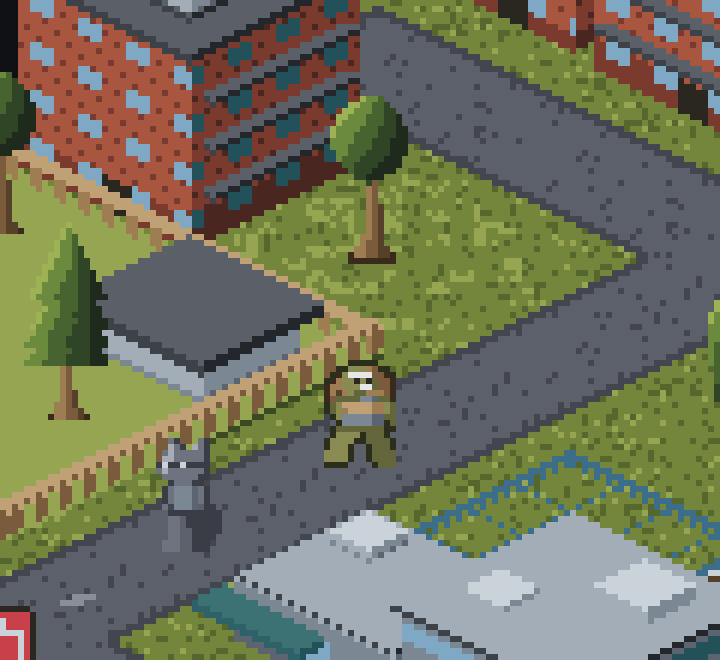
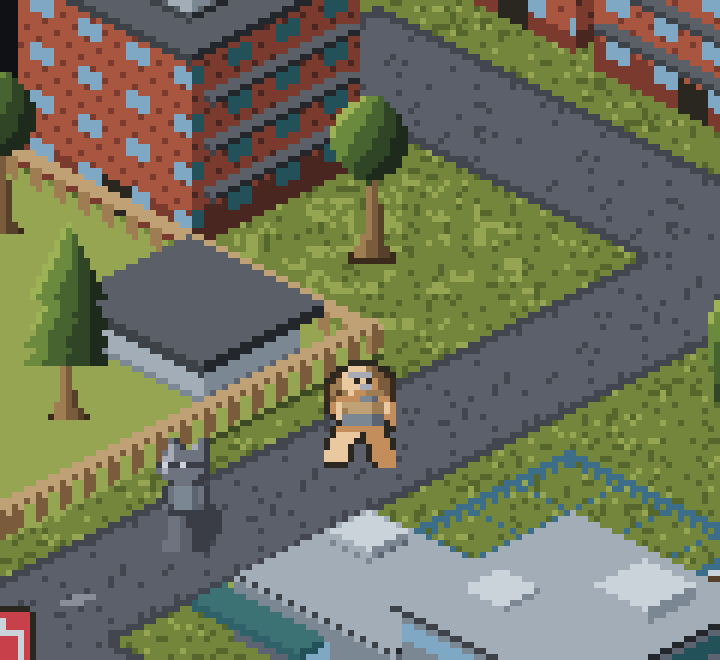
Thirteen species arrive: kit sprites for pig, cow, wolf, cat and hawk; tortoise skin; ARRIVING = everyone
Art (js/art/citizens.js, one artist + one critic, approved): HEAD overlays SE/NE,
tails (pig curl, cow rope tuft, wolf bushy low, cat rising line, hawk fan),
two new overlay kinds (WINGS for the hawk, PATCHES for the cow painted only
over fur-class pixels so a lifted leg never leaves a floating patch), cub marks
for all five; the tortoise gets a warm skin + a '+' rim so it separates from
grass and asphalt (the olive-on-olive failure). Critic's one exact fix applied:
the hawk's beak was hanging off the shaded cheek; centred under the eyes.
570 sprites audited (was 390).

Sim: species.js ARRIVING now lists every species in the table.

Measured (seed 7, 2 parks, 20 yr, all species): 870 by y5, 1,812 by y17,
top shares pig 14% / beaver 13% / wolf 11%, no species above 26% after
year 1 (bears early, as before). 44/44 checks; 111 walkers.

Changed region(s): [[0.4278, 0.5455, 0.55, 0.7273]]

diff --git a/js/art/citizens.js b/js/art/citizens.js
@@ -1,5 +1,5 @@
-// citizens.js — the KIT. Eight species, hand-authored, the organic exception
-// to the box law (SPEC §0.5, §12.3).
+// citizens.js — the KIT. Thirteen species, hand-authored, the organic
+// exception to the box law (SPEC §0.5, §12.3).
 //
 // A citizen is 12×20 (a cub 8×12), composed at first use and cached:
 //
@@ -17,12 +17,21 @@
 // Every part is authored in the WARM fur keys w x y z (dark → light) and
 // remapped to the species' ramp at compose time; '&' '^' are the shirt (a
 // neutral concrete, so head and body separate at 1×), '+' is the eye, '('
-// is an eye-white/tooth, '-' the owl's beak. The tortoise shell is EARTH
-// (q rim, r scutes, s shade, t/u dome) — a different ramp from its olive
-// limbs on purpose: authored in olive, the shell vanished into the limbs
-// and the whole animal vanished into grass (olive 'h' sits between grass
-// 'n' and 'o'). The tortoise also gets a 1-px 'f' outline so its
-// silhouette closes against grass and asphalt alike.
+// is an eye-white/tooth, '-' the owl's and the hawk's beak. The tortoise
+// shell is EARTH (q rim, r scutes, s shade, t/u dome) — a different ramp
+// from its limbs on purpose: authored in olive, the shell vanished into the
+// limbs. The limbs are NOT olive either, any more (round 4): the species
+// table says olive, but olive 'h' sits between grass 'n' and 'o' and the
+// whole animal vanished into the lawn (luminance 43/68/96/132 against
+// grass 65/91/120/151). The kit overrides the skin ramp for the tortoise
+// alone (`SKIN`): warm tan (furWarm 0) limbs under the brown shell, and a
+// 1-px '+' outline — the only near-black — so its silhouette closes
+// against grass and asphalt alike. The palette is untouched.
+//
+// Beyond ears and tails, three species carry one more overlay: the cow's
+// black patches ('+', painted only where fur already is, so they never
+// float — `PATCHES`), the hawk's folded wings over the arms and its fanned
+// tail (`WINGS`), and the pig's ring snout, which lives in its head rows.
 //
 // ELDER = one rung lighter, but only where the light body rung has
 // headroom; a coat already at the top of its ramp (rabbit, mouse) keeps
@@ -55,12 +64,12 @@ export const FRAMES = Object.freeze(["stand", "stepA", "stepB"]);
 export const AGES = Object.freeze(["adult", "elder", "cub"]);
 /**
  * The species the KIT covers — those with a head overlay below — not every
- * row of the sim's species table. The table can grow ahead of the art
- * (pig, cow, wolf, cat, hawk are in it today); the sim's `ARRIVING` set
- * keeps those off the map until their sprites exist, and `citizenSprite`
- * throws for one, by name, rather than drawing a headless body.
+ * row of the sim's species table. The table can grow ahead of the art; the
+ * sim's `ARRIVING` set keeps a species off the map until its sprites
+ * exist, and `citizenSprite` throws for one, by name, rather than drawing
+ * a headless body. All thirteen rows of the table are drawn today.
  */
-const HEAD_SPECIES = { rabbit: 1, mouse: 1, fox: 1, beaver: 1, owl: 1, bear: 1, tortoise: 1, raccoon: 1 };
+const HEAD_SPECIES = { rabbit: 1, mouse: 1, fox: 1, beaver: 1, owl: 1, bear: 1, tortoise: 1, raccoon: 1, pig: 1, cow: 1, wolf: 1, cat: 1, hawk: 1 };
 export const SPECIES_IDS = Object.freeze(Object.keys(SPECIES_BY_ID).filter((id) => id in HEAD_SPECIES));
 
 // =========================================================================
@@ -366,6 +375,135 @@ const HEAD = {
       "...xyyyxx...",
     ]),
   },
+  // Round 4: the livestock and the predators. Each is ONE mark past the
+  // shared body: pig = the ring snout (an 'x' ring round 'z' with '+'
+  // nostrils — on the pale +1 coat the ring is the one darker rung) and
+  // small triangular ears; cow = short 'w' horns, ears out SIDEWAYS, a
+  // broad 'x' muzzle three rows deep, and '+' patches; wolf = the fox's
+  // pointed ears on the big head and a muzzle one column longer, tipped
+  // with a '+' nose; cat = two-row ears, a 'w' nose, and 1-px 'z' whiskers
+  // standing one pixel off each cheek; hawk = a round head with 'w' brows
+  // and a hooked '-' beak two columns proud of the face.
+  pig: {
+    se: part([
+      "............",
+      "..y.....y...",
+      ".yzy...yxy..",
+      ".yzyyyyyyxx.",
+      ".zzyyyyyyyx.",
+      ".zyyy+yy+yx.",
+      ".yyyywzzzwx.",
+      "..yyyw+z+wx.",
+      "...xyywwwx..",
+    ]),
+    ne: part([
+      "............",
+      "..y.....y...",
+      ".yzy...yxy..",
+      ".yzyyyyyyxx.",
+      ".zyyyyyyyyx.",
+      ".zyyyyyyyyx.",
+      ".yyyyyyyyxx.",
+      "..yyyyyyyx..",
+      "...xyyxxx...",
+    ]),
+  },
+  cow: {
+    se: part([
+      "............",
+      ".w.......w..",
+      ".wy.....yw..",
+      "..++yyyyyx..",
+      "yy++yyyyyyxx",
+      "yzzyy+yy+yxx",
+      ".zyxxxxxxxx.",
+      "..yxx+xx+xx.",
+      "...xxxxxxx..",
+    ]),
+    ne: part([
+      "............",
+      ".w.......w..",
+      ".wy.....yw..",
+      "..yyyyyyyx..",
+      "yyzyyyyyyyxx",
+      "yzyyyy+++yxx",
+      ".zyyyy+++xx.",
+      "..yyyyyyyx..",
+      "...xyyyxxx..",
+    ]),
+  },
+  wolf: {
+    se: part([
+      "..y......y..",
+      ".yzy....yxy.",
+      ".yzyy..yyxy.",
+      ".yzyyyyyyyx.",
+      ".zzyyyyyyyx.",
+      ".zyyy+yy+yx.",
+      ".yyyyyyyzzzx",
+      "..yyyyyzzzz+",
+      "...xyyxxxx..",
+    ]),
+    ne: part([
+      "..y......y..",
+      ".yzy....yxy.",
+      ".yzyy..yyxy.",
+      ".yzyyyyyyyx.",
+      ".zyyyyyyyyx.",
+      ".zyyyyyyyyx.",
+      ".yyyyyyyyxx.",
+      "..yyyyyyxxx.",
+      "...xyyyxxx..",
+    ]),
+  },
+  cat: {
+    se: part([
+      "............",
+      "............",
+      "..y.....y...",
+      "..yzy..yyx..",
+      "..zyyyyyyx..",
+      "..zyy+yy+x..",
+      "z.yyyyywyx.z",
+      "z.yyyyyyxx.z",
+      "...xyyyxx...",
+    ]),
+    ne: part([
+      "............",
+      "............",
+      "..y.....y...",
+      "..yzy..yyx..",
+      "..zyyyyyyx..",
+      "..zyyyyyyx..",
+      "..yyyyyyyx..",
+      "..yyyyyyxx..",
+      "...xyyyxx...",
+    ]),
+  },
+  hawk: {
+    se: part([
+      "............",
+      "............",
+      "............",
+      "...yyyyy....",
+      "..zyywyywx..",
+      "..zyy+yy+x..",
+      "..yyy--yyx..",
+      "..yyyy-yxx..",
+      "...xyyyxx...",
+    ]),
+    ne: part([
+      "............",
+      "............",
+      "............",
+      "...yyyyy....",
+      "..zyyyyyyx..",
+      "..zyyyyyyx..",
+      "..yyyyyyyx..",
+      "..yyyyyyxx..",
+      "...xyyyxx...",
+    ]),
+  },
 };
 
 // =========================================================================
@@ -399,6 +537,65 @@ const TAIL = {
     se: [part(["..x.", ".x..", "x...", "x..."]), 0, 13, true],
     ne: [part(["x", "x", ".x", ".x", "..x"]), 6, 13, false],
   },
+  // A curl at the rump: on the +1 coat 'x' is the ring-snout rung, one
+  // darker than the body, so the curl reads without a key of its own.
+  pig: {
+    se: [part([".xx", "x.x", "xx."]), 0, 12, true],
+    ne: [part([".xx", "x.x", "xx."]), 5, 13, false],
+  },
+  // A rope with a dark tuft.
+  cow: {
+    se: [part([".x", ".x", ".x", "ww", "ww"]), 0, 11, true],
+    ne: [part([".x", ".x", ".x", "ww", "ww"]), 5, 13, false],
+  },
+  // Bushy and held LOW — straight down the back-left to the hocks, dark
+  // edged ('x' → 'W' on the −1 coat) so it separates from the leg it hangs
+  // beside, where the fox's curls up and ends light.
+  wolf: {
+    se: [part([".yy.", "xzyy", "xzyy", "xyyy", "xyyy", "wxyy", ".wx."]), 0, 12, true],
+    ne: [part([".yy.", "yzyy", "yzyy", "yyyy", "xyyy", "xxyy", ".xw."]), 4, 12, false],
+  },
+  // A 1-px line from the rump UP the back to shoulder height, curling at
+  // the tip — the mouse's goes down.
+  cat: {
+    se: [part(["xx.", "x..", "x..", "x..", "x..", ".x.", "..x"]), 0, 9, true],
+    ne: [part([".xx", ".x.", ".x.", ".x.", ".x.", "x.."]), 9, 9, false],
+  },
+  // A fan, widening away from the hip, with 'w' feather lines.
+  hawk: {
+    se: [part(["..yy", ".xyy", "xwyw", "xw.w"]), 0, 13, true],
+    ne: [part([".yy.", "yyyy", "wywy", "wywy"]), 4, 13, false],
+  },
+};
+
+/**
+ * The hawk's folded wings: stamped over the arms (rows 9–15, both
+ * facings), two columns wider than the arm on each side and pointed at
+ * the hip, so the shoulders read as wings by silhouette alone. 'z' along
+ * the lit left wing (→ earth 't'), 'w' tips (→ 'q').
+ */
+const WINGS = part([
+  ".zy......yx.",
+  "xzy......yyx",
+  "xzy......yyx",
+  "xzy......yyx",
+  "wxy......yxw",
+  ".wx......xw.",
+  "..w......w..",
+]);
+
+/**
+ * The cow's patches, as [x, y, w, h] rectangles in frame coordinates,
+ * painted in '+' ONLY where the composed grid already has a fur pixel —
+ * so the same three rectangles land on the thigh, the shin and the arm
+ * in every frame, and a lifted leg leaves no patch floating in the air.
+ */
+const PATCHES = {
+  cow: [
+    [2, 14, 2, 2],
+    [8, 17, 2, 2],
+    [10, 10, 2, 2],
+  ],
 };
 
 /**
@@ -463,6 +660,14 @@ const CUB_MARK = {
   // bear cub minus ears.
   beaver: [part(["xx", "xx"]), 0, 10],
   tortoise: [part([".qttsq", "qtrssq", ".qqqq."]), 1, 7],
+  // Round 4. A sparse mark can span rows: stamp() skips '.', so ears at
+  // the crown and a snout / muzzle / whiskers at the cheek row travel as
+  // one part.
+  pig: [part(["..y..y..", "........", "........", "........", "...x++x."]), 0, 1],
+  cow: [part([".w....w.", "........", "........", "y......x", "..xxxxx."]), 0, 1],
+  wolf: [part([".y....y.", ".yy..yy.", "........", "........", "....zz+."]), 0, 1],
+  cat: [part(["..y..y..", "........", "........", "........", "z......z"]), 0, 1],
+  hawk: [part(["......--", "......-."]), 0, 5],
 };
 
 // =========================================================================
@@ -517,8 +722,19 @@ export const MEETING = defineSprite({
 // Composition.
 // =========================================================================
 
-const BUILD = { rabbit: "small", mouse: "small", fox: "small", owl: "small", raccoon: "small", beaver: "big", bear: "big", tortoise: "big" };
+const BUILD = {
+  rabbit: "small", mouse: "small", fox: "small", owl: "small", raccoon: "small", cat: "small", hawk: "small",
+  beaver: "big", bear: "big", tortoise: "big", pig: "big", cow: "big", wolf: "big",
+};
 const AUTHOR_KEYS = keysOf("furWarm"); // w x y z — the authoring ramp
+
+/**
+ * Skin overrides: where the ART disagrees with the species table's ramp.
+ * The tortoise's table row says olive; olive vanished into the lawn (see
+ * the header), so the kit paints its limbs warm tan instead. The sim is
+ * not consulted for colour anywhere else, so nothing else moves.
+ */
+const SKIN = { tortoise: { fur: "furWarm", furShift: 0 } };
 
 /**
  * Key map: authoring fur keys → the species' ramp, shifted. Elder = one
@@ -530,9 +746,10 @@ const AUTHOR_KEYS = keysOf("furWarm"); // w x y z — the authoring ramp
 function furMap(species, elder) {
   const sp = SPECIES_BY_ID[species];
   if (!sp) throw new Error(`citizens: unknown species '${species}'`);
-  const ramp = keysOf(sp.fur);
+  const skin = SKIN[species] || sp;
+  const ramp = keysOf(skin.fur);
   const n = ramp.length - 1;
-  const idx = (i) => Math.max(0, Math.min(n, i + sp.furShift));
+  const idx = (i) => Math.max(0, Math.min(n, i + skin.furShift));
   const up = elder && idx(2) < n ? 1 : 0;
   const map = {};
   AUTHOR_KEYS.forEach((k, i) => {
@@ -624,6 +841,15 @@ function mirrorLit(rows) {
   );
 }
 
+/** Paint `key` over the w×h rectangle at (x, y) — but only where the grid already holds a FUR pixel. */
+function patchFur(g, x, y, w, h, key) {
+  for (let py = y; py < y + h; py++)
+    for (let px = x; px < x + w; px++) {
+      if (py < 0 || py >= g.length || px < 0 || px >= g[0].length) continue;
+      if (CLASS_OF[g[py][px]] === "fur") g[py][px] = key;
+    }
+}
+
 /** A 1-px outline in `key` around every opaque pixel (4-neighbours), inside the grid. */
 function outline(rows, key) {
   const h = rows.length, w = rows[0].length;
@@ -675,6 +901,8 @@ function composeAdult(species, facing, frame, elder, hat) {
   const shellBehind = species === "tortoise" && facing === "se";
   if (shellBehind) put(SHELL.se[0], SHELL.se[1], SHELL.se[2]);
   put(body, 0, 8);
+  if (species === "hawk") put(WINGS, 0, 9);
+  if (PATCHES[species]) for (const [x, y, w, h] of PATCHES[species]) patchFur(g, x, y + lift, w, h, "+");
   if (tail && !tail[3]) put(tail[0], tail[1], tail[2]);
   const head = HEAD[species][facing];
   if (shellBehind) {
@@ -712,7 +940,7 @@ const CACHE = new Map();
  * 'adult'|'elder'|'cub' (or years). `opts.hat` adds the centenary hat.
  */
 export function citizenSprite(species, facing = "se", frame = 0, age = "adult", opts = {}) {
-  if (!(species in HEAD_SPECIES)) throw new Error(`citizens: no kit for species '${species}' — author its HEAD/BUILD/CUB_MARK here, then add it to species.js ARRIVING`);
+  if (!(species in HEAD_SPECIES)) throw new Error(`citizens: no kit for species '${species}' — author its HEAD/BUILD/CUB_MARK here and add it to HEAD_SPECIES, then to species.js ARRIVING`);
   const f = normFacing(facing);
   const fr = normFrame(frame);
   const ag = normAge(species, age);
@@ -725,7 +953,7 @@ export function citizenSprite(species, facing = "se", frame = 0, age = "adult", 
   // Mirror the AUTHORED grid (so the light stays upper-left), THEN skin it.
   if (f === "sw" || f === "nw") rows = mirrorLit(rows);
   rows = remap(rows, furMap(species, ag === "elder"));
-  if (species === "tortoise") rows = outline(rows, "f");
+  if (species === "tortoise") rows = outline(rows, "+");
   const h = rows.length;
   const anchor = ag === "cub" ? [4, 11] : [6, h - 1];
   s = defineSprite({ name: `citizen-${key}`, rows, anchor, tags: ["citizen", species, ag] });
@@ -733,7 +961,7 @@ export function citizenSprite(species, facing = "se", frame = 0, age = "adult", 
   return s;
 }
 
-/** Every citizen sprite, named, for the audit: 8 species × 4 facings × 3 frames × 3 ages (+ one hat). */
+/** Every citizen sprite, named, for the audit: 13 species × 4 facings × 3 frames × 3 ages (+ one hat). */
 export function allCitizens() {
   const out = [];
   for (const species of SPECIES_IDS)

diff --git a/js/sim/species.js b/js/sim/species.js
@@ -42,8 +42,8 @@ export function isPredatorOf(pred, prey) {
 }
 export const isPredPrey = (a, b) => isPredatorOf(a, b) || isPredatorOf(b, a);
 
-/** Species that can ARRIVE. New species join here once their sprites exist. */
-export const ARRIVING = new Set(["rabbit", "mouse", "fox", "beaver", "owl", "bear", "tortoise", "raccoon"]);
+/** Species that can ARRIVE: all thirteen (every one has kit sprites in js/art/citizens.js). */
+export const ARRIVING = new Set(SPECIES.map((s) => s.id));
 
 export const SPECIES_BY_ID = Object.freeze(Object.fromEntries(SPECIES.map((s) => [s.id, s])));
 export const SPECIES_INDEX = Object.freeze(Object.fromEntries(SPECIES.map((s, i) => [s.id, i])));
